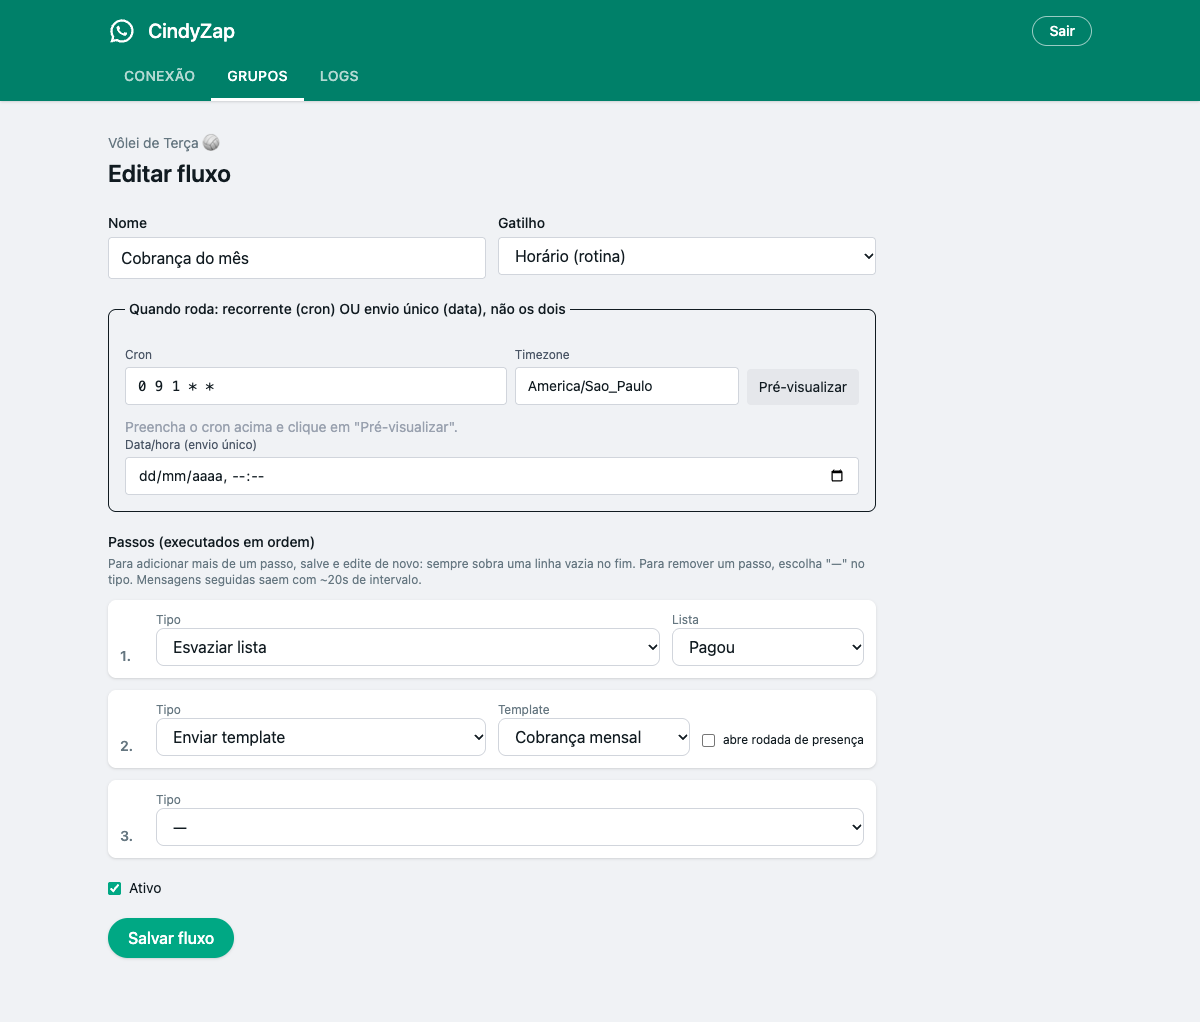
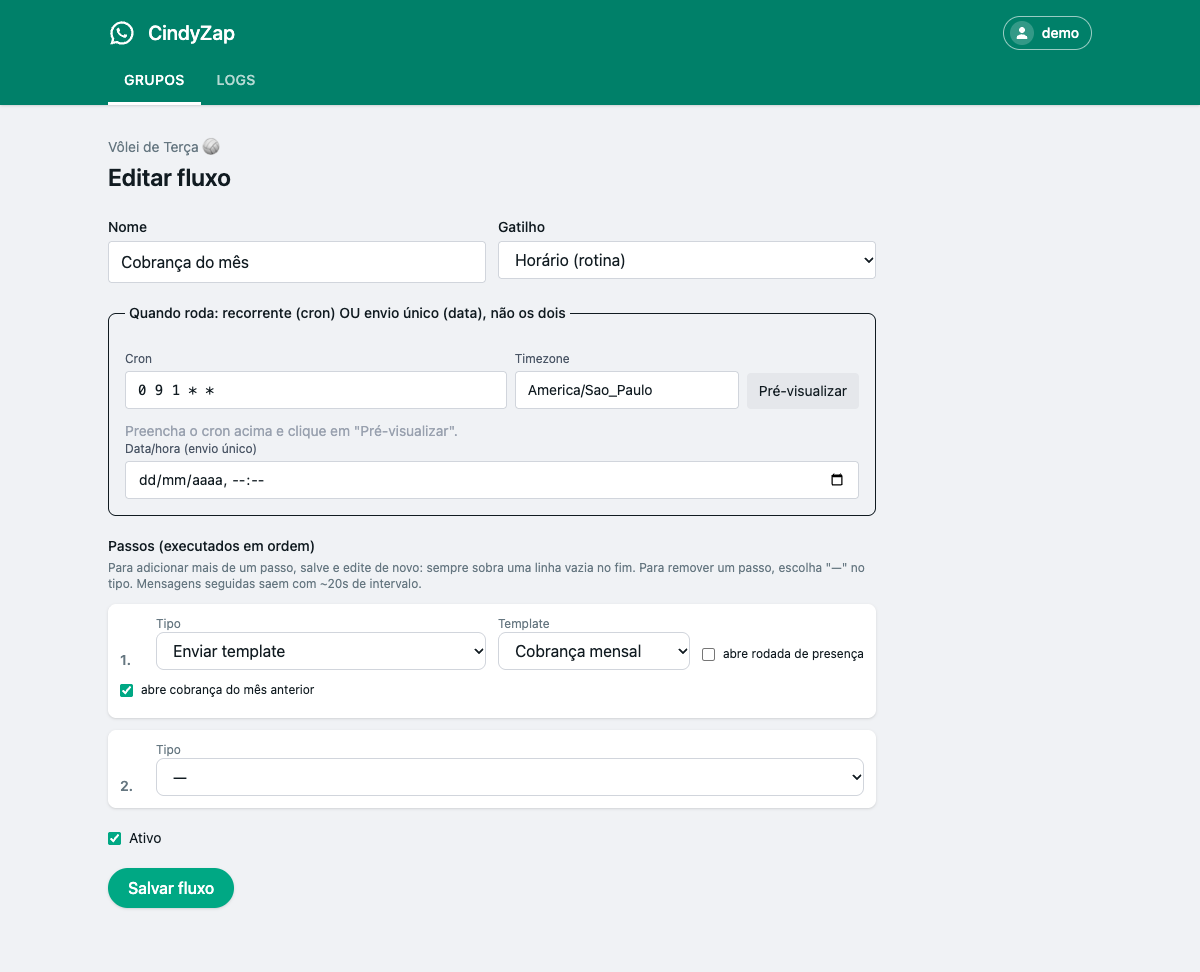
README: prints refeitos com o cabeçalho novo e a cobrança mensal

diff --git a/README.md b/README.md
@@ -75,9 +75,9 @@ mensalistas marcados, as reações viram confirmações, um lembrete marca quem 
 |---|---|
 | ![Fluxo de comando](docs/screenshots/fluxo-comando.png) | ![Rotina com dois passos](docs/screenshots/fluxo-rotina.png) |
 
-| Template com prévia | Recurso "Lista de presença" |
+| Template com prévia | Recursos: presença e cobrança mensal |
 |---|---|
-| ![Edição de template](docs/screenshots/template.png) | ![Configuração da lista de presença](docs/screenshots/grupo-recursos.png) |
+| ![Edição de template](docs/screenshots/template.png) | ![Lista de presença e cobrança mensal do grupo](docs/screenshots/grupo-recursos.png) |
 
 **No celular**
 
